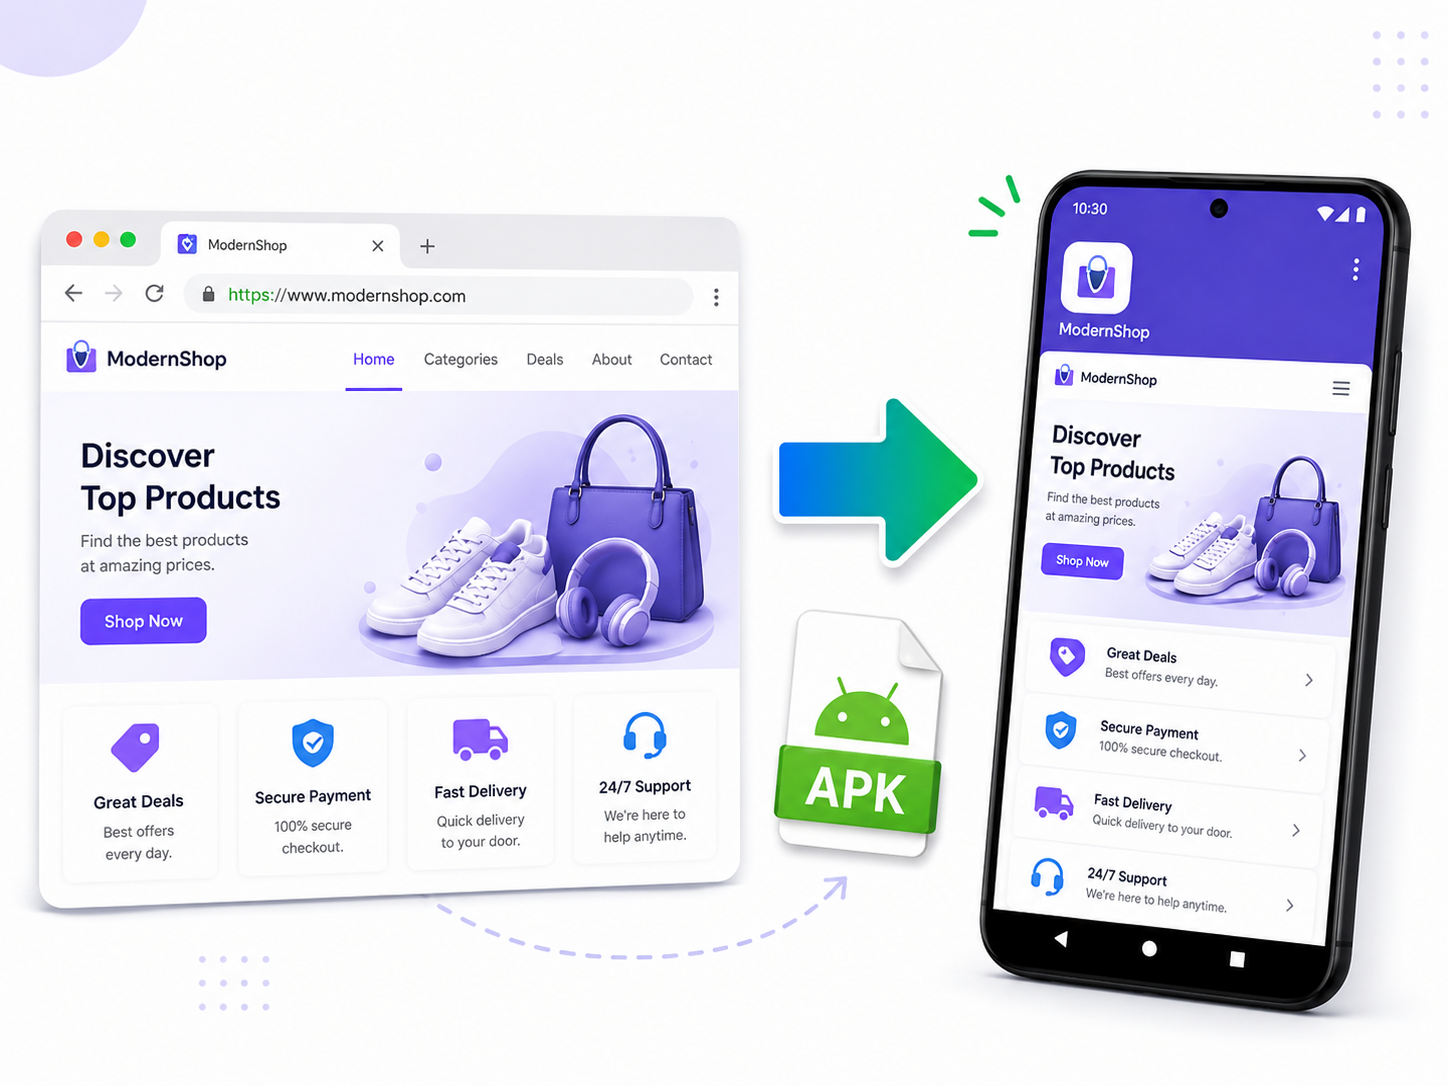
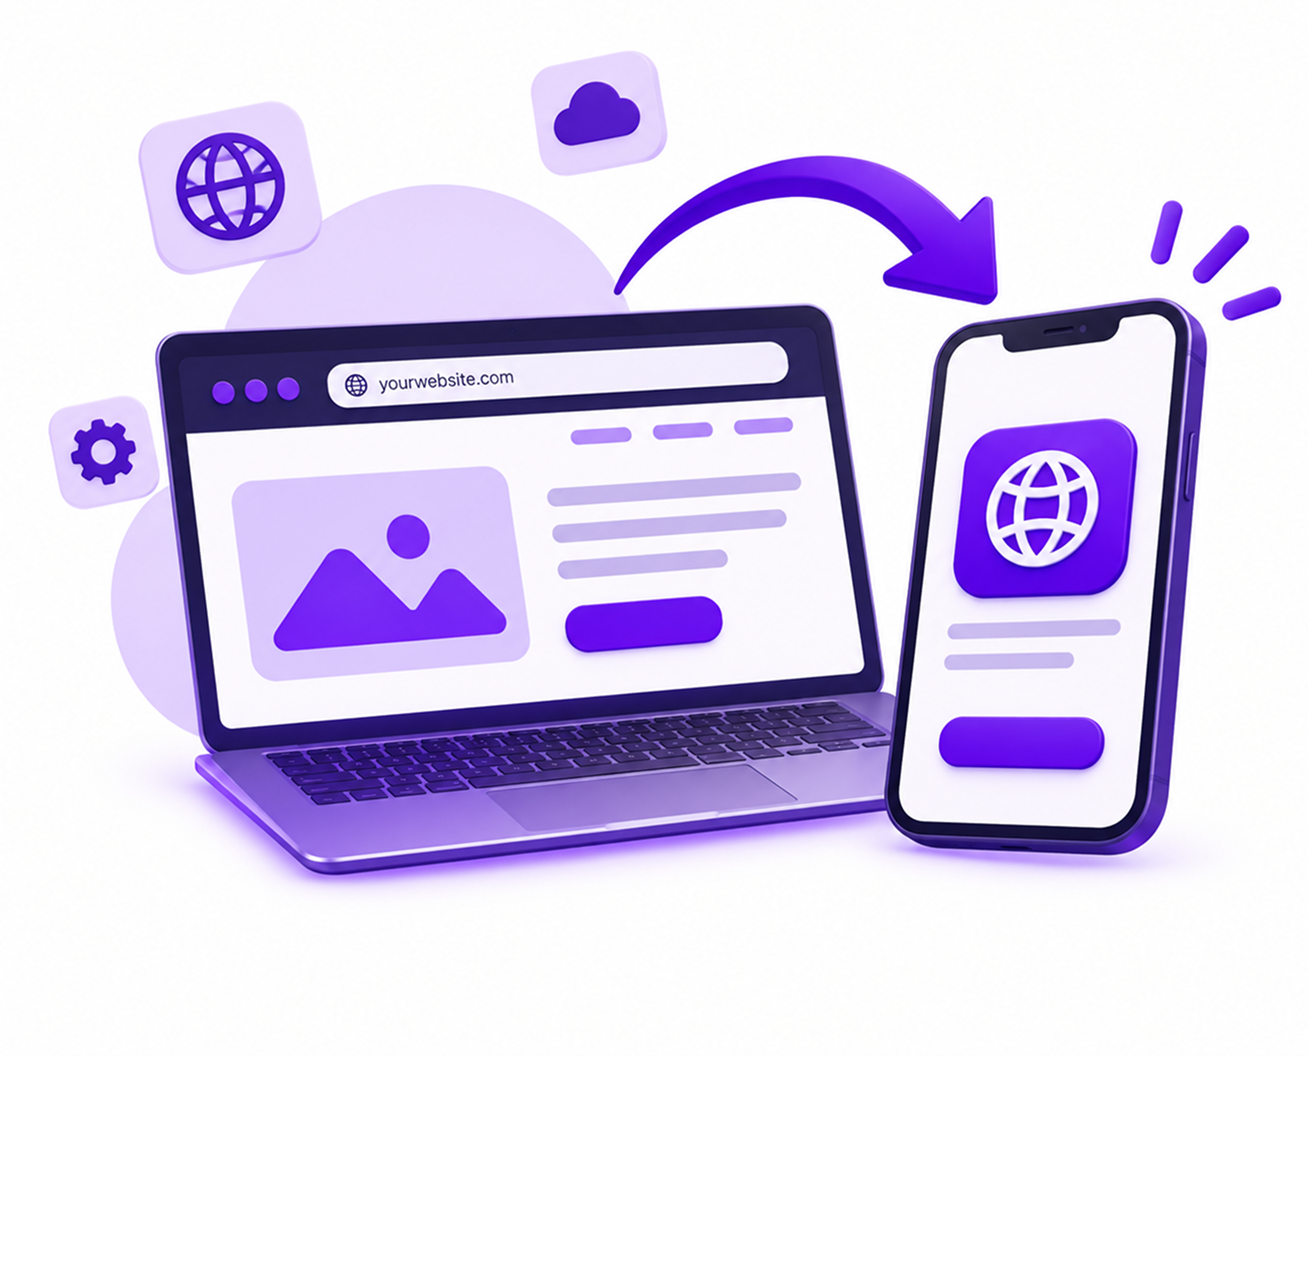
recent project add

diff --git a/lib/core/services/guest_auth_service.dart b/lib/core/services/guest_auth_service.dart
@@ -2,6 +2,7 @@ import 'package:get/get.dart';
 import 'package:web_to_app/core/api/api_exception.dart';
 import 'package:web_to_app/core/services/session_service.dart';
 import 'package:web_to_app/core/services/token_storage.dart';
+import 'package:web_to_app/data/models/auth_models.dart';
 import 'package:web_to_app/data/repositories/auth_repository.dart';
 
 /// Creates a silent backend session for guest users on their first build.
@@ -14,7 +15,10 @@ class GuestAuthService extends GetxService {
 
   Future<void> ensureGuestApiSession() async {
     if (!_sessionService.isGuest.value) return;
-    if (_tokenStorage.hasTokens) return;
+    if (_tokenStorage.hasTokens) {
+      await _restoreGuestProfileIfNeeded();
+      return;
+    }
 
     final email = _tokenStorage.guestEmail ?? _buildGuestEmail();
     final password = _tokenStorage.guestPassword ?? _buildGuestPassword(email);
@@ -43,5 +47,42 @@ class GuestAuthService extends GetxService {
   String _buildGuestPassword(String email) {
     final suffix = email.hashCode.abs().toRadixString(36);
     return 'Guest@$suffix!';
+  }
+
+  Future<void> _restoreGuestProfileIfNeeded() async {
+    if (_sessionService.user.value != null) return;
+
+    try {
+      final me = await _authRepository.me();
+      await _sessionService.setGuestAuthResult(
+        AuthResult(user: me.user, tokens: _currentTokens()),
+      );
+    } on ApiException catch (e) {
+      if (e.statusCode != 401 && e.code != 'unauthenticated') {
+        rethrow;
+      }
+      await _tokenStorage.clearAuth();
+      await ensureGuestApiSession();
+    }
+  }
+
+  AuthTokens _currentTokens() {
+    final access = _tokenStorage.accessToken;
+    final refresh = _tokenStorage.refreshToken;
+    if (access == null || refresh == null) {
+      throw StateError('Missing guest tokens');
+    }
+    return AuthTokens(
+      accessToken: access,
+      refreshToken: refresh,
+      expiresInSec: _remainingTokenLifetimeSec(),
+    );
+  }
+
+  int _remainingTokenLifetimeSec() {
+    final expiresAt = _tokenStorage.accessExpiresAt;
+    if (expiresAt == null) return 3600;
+    final remainingMs = expiresAt - DateTime.now().millisecondsSinceEpoch;
+    return remainingMs > 0 ? (remainingMs / 1000).ceil() : 60;
   }
 }

diff --git a/lib/modules/auth/controllers/auth_controller.dart b/lib/modules/auth/controllers/auth_controller.dart
@@ -3,12 +3,14 @@ import 'package:get/get.dart';
 import 'package:web_to_app/core/api/api_exception.dart';
 import 'package:web_to_app/core/navigation/auth_redirect.dart';
 import 'package:web_to_app/core/navigation/launch_flow.dart';
+import 'package:web_to_app/core/services/guest_migration_service.dart';
 import 'package:web_to_app/core/services/session_service.dart';
 import 'package:web_to_app/core/services/token_storage.dart';
 import 'package:web_to_app/core/utils/app_error_handler.dart';
 import 'package:web_to_app/core/utils/app_toast.dart';
 import 'package:web_to_app/data/models/auth_models.dart';
 import 'package:web_to_app/data/repositories/auth_repository.dart';
+import 'package:web_to_app/modules/home/controllers/home_controller.dart';
 
 enum AuthTab { signIn, signUp }
 
@@ -114,6 +116,11 @@ class AuthController extends GetxController {
     try {
       final authRepo = Get.find<AuthRepository>();
       final session = Get.find<SessionService>();
+      final storage = Get.find<TokenStorage>();
+      final guestRefreshToken =
+          session.isGuest.value && storage.hasTokens
+              ? storage.refreshToken
+              : null;
       final AuthResult result;
 
       if (isSignIn) {
@@ -126,7 +133,19 @@ class AuthController extends GetxController {
       }
 
       await session.setAuthResult(result);
+      if (guestRefreshToken != null) {
+        try {
+          await Get.find<GuestMigrationService>().migrateGuestApps(
+            guestRefreshToken: guestRefreshToken,
+          );
+        } catch (_) {
+          // Migration is best-effort until backend merge is available.
+        }
+      }
       await session.refreshProfile();
+      if (Get.isRegistered<HomeController>()) {
+        await Get.find<HomeController>().loadApps();
+      }
       await _completeAuthNavigation();
     } on ApiException catch (e) {
       await AppErrorHandler.show(

diff --git a/lib/modules/home/controllers/home_controller.dart b/lib/modules/home/controllers/home_controller.dart
@@ -4,6 +4,7 @@ import 'package:get/get.dart';
 import 'package:web_to_app/core/ads/interstitial_ad_trigger.dart';
 import 'package:web_to_app/core/services/analytics_service.dart';
 import 'package:web_to_app/core/services/push_notification_service.dart';
+import 'package:web_to_app/core/services/guest_auth_service.dart';
 import 'package:web_to_app/core/services/session_service.dart';
 import 'package:web_to_app/core/utils/app_error_handler.dart';
 import 'package:web_to_app/core/utils/app_toast.dart';
@@ -59,7 +60,10 @@ class HomeController extends GetxController {
 
   Future<void> loadApps() async {
     final session = Get.find<SessionService>();
-    if (!session.isAuthenticated) {
+    if (session.isGuest.value) {
+      await Get.find<GuestAuthService>().ensureGuestApiSession();
+    }
+    if (!session.canAccessApps) {
       apps.clear();
       return;
     }
@@ -82,7 +86,10 @@ class HomeController extends GetxController {
 
   Future<void> openAppBuild(AppSummary app) async {
     final session = Get.find<SessionService>();
-    if (!session.isAuthenticated) {
+    if (session.isGuest.value) {
+      await Get.find<GuestAuthService>().ensureGuestApiSession();
+    }
+    if (!session.canAccessApps) {
       AppToast.info(
         'Sign in required',
         description: 'Sign in to open and build your apps.',
@@ -103,7 +110,10 @@ class HomeController extends GetxController {
 
   Future<void> openAppBuildFlow(AppSummary app) async {
     final session = Get.find<SessionService>();
-    if (!session.isAuthenticated) {
+    if (session.isGuest.value) {
+      await Get.find<GuestAuthService>().ensureGuestApiSession();
+    }
+    if (!session.canAccessApps) {
       AppToast.info(
         'Sign in required',
         description: 'Sign in to open and build your apps.',

diff --git a/lib/modules/create_app/controllers/build_app_controller.dart b/lib/modules/create_app/controllers/build_app_controller.dart
@@ -24,6 +24,7 @@ import 'package:web_to_app/data/repositories/builds_repository.dart';
 import 'package:web_to_app/data/repositories/signing_repository.dart';
 import 'package:web_to_app/data/services/app_sync_service.dart';
 import 'package:web_to_app/modules/create_app/controllers/create_app_controller.dart';
+import 'package:web_to_app/modules/home/controllers/home_controller.dart';
 import 'package:web_to_app/modules/create_app/models/preview_mode.dart';
 import 'package:web_to_app/modules/create_app/services/create_app_picker_service.dart';
 
@@ -496,6 +497,9 @@ class BuildAppController extends GetxController {
 
   Future<void> _markFirstBuildComplete() async {
     await Get.find<TokenStorage>().markFirstBuildComplete();
+    if (Get.isRegistered<HomeController>()) {
+      unawaited(Get.find<HomeController>().loadApps());
+    }
   }
 
   Future<void> _consumeCreditOnBuildSuccess(String id) async {

diff --git a/lib/data/services/app_sync_service.dart b/lib/data/services/app_sync_service.dart
@@ -2,7 +2,6 @@ import 'package:get/get.dart';
 import 'package:web_to_app/core/api/api_exception.dart';
 import 'package:web_to_app/core/services/guest_auth_service.dart';
 import 'package:web_to_app/core/services/session_service.dart';
-import 'package:web_to_app/core/services/token_storage.dart';
 import 'package:web_to_app/data/mappers/app_config_mapper.dart';
 import 'package:web_to_app/data/repositories/apps_repository.dart';
 import 'package:web_to_app/data/repositories/assets_repository.dart';
@@ -103,8 +102,7 @@ class AppSyncService extends GetxService {
   Future<void> _ensureApiAccess() async {
     if (_sessionService.isAuthenticated) return;
 
-    final storage = Get.find<TokenStorage>();
-    if (_sessionService.isGuest.value && !storage.hasCompletedFirstBuild) {
+    if (_sessionService.isGuest.value) {
       await Get.find<GuestAuthService>().ensureGuestApiSession();
       return;
     }

diff --git a/lib/modules/splash/controllers/splash_controller.dart b/lib/modules/splash/controllers/splash_controller.dart
@@ -11,6 +11,7 @@ import 'package:web_to_app/core/ads/ads_consent_gate.dart';
 import 'package:web_to_app/core/ads/interstitial_ad_trigger.dart';
 import 'package:web_to_app/core/constants/app_debug_flags.dart';
 import 'package:web_to_app/core/navigation/launch_flow.dart';
+import 'package:web_to_app/core/services/guest_auth_service.dart';
 import 'package:web_to_app/core/services/premium_service.dart';
 import 'package:web_to_app/core/services/session_service.dart';
 import 'package:web_to_app/core/services/token_storage.dart';
@@ -88,6 +89,9 @@ class SplashController extends GetxController {
 
     if (storage.isGuestMode) {
       session.restoreGuestSession();
+      if (storage.hasTokens || storage.guestEmail != null) {
+        await Get.find<GuestAuthService>().ensureGuestApiSession();
+      }
     } else {
       await session.restoreSession();
     }

diff --git a/lib/core/bindings/initial_binding.dart b/lib/core/bindings/initial_binding.dart
@@ -5,6 +5,7 @@ import 'package:web_to_app/core/services/language_service.dart';
 import 'package:web_to_app/core/services/push_notification_service.dart';
 import 'package:web_to_app/core/services/credit_service.dart';
 import 'package:web_to_app/core/services/guest_auth_service.dart';
+import 'package:web_to_app/core/services/guest_migration_service.dart';
 import 'package:web_to_app/core/services/premium_service.dart';
 import 'package:web_to_app/core/services/session_service.dart';
 import 'package:web_to_app/core/services/token_storage.dart';
@@ -51,6 +52,10 @@ class InitialBinding extends Bindings {
         session,
         tokenStorage,
       ),
+      permanent: true,
+    );
+    Get.put<GuestMigrationService>(
+      GuestMigrationService(Get.find<AuthRepository>()),
       permanent: true,
     );
 

diff --git a/lib/core/services/guest_migration_service.dart b/lib/core/services/guest_migration_service.dart
@@ -1,0 +1,22 @@
+import 'package:get/get.dart';
+import 'package:web_to_app/core/api/api_exception.dart';
+import 'package:web_to_app/data/repositories/auth_repository.dart';
+
+/// Moves guest-built apps onto the signed-in account after login/signup.
+class GuestMigrationService extends GetxService {
+  GuestMigrationService(this._authRepository);
+
+  final AuthRepository _authRepository;
+
+  Future<void> migrateGuestApps({required String guestRefreshToken}) async {
+    try {
+      await _authRepository.mergeGuestAccount(
+        guestRefreshToken: guestRefreshToken,
+      );
+    } on ApiException catch (e) {
+      // Backend may not expose merge yet — ignore missing route.
+      if (e.statusCode == 404 || e.code == 'not_found') return;
+      rethrow;
+    }
+  }
+}

diff --git a/lib/core/services/session_service.dart b/lib/core/services/session_service.dart
@@ -15,6 +15,12 @@ class SessionService extends GetxService {
 
   bool get isAuthenticated => !isGuest.value && user.value != null;
 
+  /// Guest users with an active API session can list and open their apps.
+  bool get canAccessApps {
+    if (isAuthenticated) return true;
+    return isGuest.value && Get.find<TokenStorage>().hasTokens;
+  }
+
   void notifyIapPremiumChanged() => _iapPremiumTick.value++;
 
   bool get hasPremiumAccess {

diff --git a/lib/modules/home/widgets/recent_section.dart b/lib/modules/home/widgets/recent_section.dart
@@ -73,7 +73,7 @@ class MyAppsTab extends GetView<HomeController> {
                 ..sort((a, b) => b.createdAt.compareTo(a.createdAt));
               final session = Get.find<SessionService>();
 
-              if (!session.isAuthenticated) {
+              if (!session.canAccessApps) {
                 return Center(
                   child: Padding(
                     padding: EdgeInsets.all(Responsive.w(context, 24)),

diff --git a/lib/data/repositories/auth_repository.dart b/lib/data/repositories/auth_repository.dart
@@ -64,6 +64,12 @@ class AuthRepository extends GetxService {
     data: {'email': email},
   );
 
+  Future<void> mergeGuestAccount({required String guestRefreshToken}) =>
+      _client.post<void>(
+        '/v1/auth/merge-guest',
+        data: {'guestRefreshToken': guestRefreshToken},
+      );
+
   Future<void> logout() async {
     final refreshToken = _tokenStorage.refreshToken;
     try {
